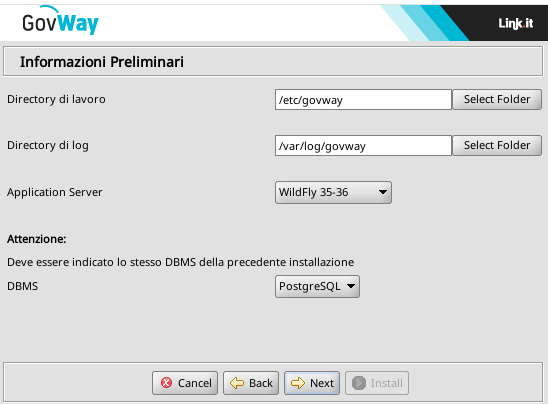
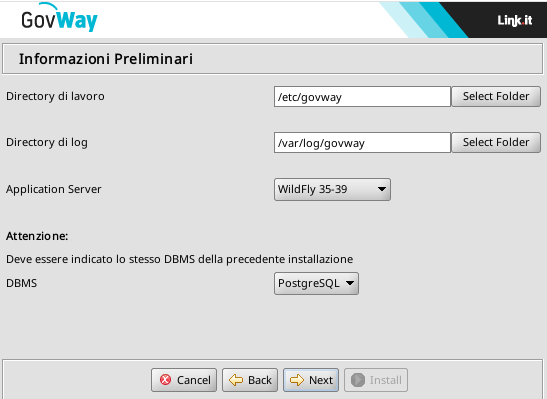
[InstallerVersioneBinaria] Aggiunto supporto per wildfly 39.
Squashed commit of the following:

commit b04a458861ce587e2a53c3a396462551c547e3b7
Author: Tommaso Burlon <tommaso.burlon@gmail.com>
Date:   Tue Feb 10 17:12:10 2026 +0100

    [GovWayCore]
    Aggiunto supporto a WildFly 39

diff --git a/resources/doc/src/manuali/installazione/installer/avanzata.rst b/resources/doc/src/manuali/installazione/installer/avanzata.rst
@@ -51,9 +51,13 @@ La sezione **Componenti Applicative** prevede le seguenti opzioni:
 
 - *Generazione delle Statistiche*: scelta del meccanismo da adottare per il periodico aggiornamento delle statistiche:
 
-	- *Utilizza stesso ambiente del Runtime*: il meccanismo di generazione delle statistiche è automatizzato con un sistema di integrazione al runtime di Govway
+	- *Utilizza stesso ambiente del Runtime*: il meccanismo di generazione delle statistiche è automatizzato con un sistema integrato al runtime di Govway;
 
-	- *Generazione tramite Applicazione Batch*: la generazione delle statistiche avviene tramite invocazione di un batch appositamente generato
+	- *Generazione tramite Applicazione Web*: la generazione delle statistiche è delegata ad un'applicazione dedicata alla funzionalità;
+
+	- *Generazione tramite Applicazione Batch*: la generazione delle statistiche avviene tramite invocazione di un batch appositamente generato;
+	
+	- *Utilizza Runtime; predisponi Batch*: il meccanismo di generazione è integrato al runtime, ma negli artefatti prodotti è disponibile anche il batch.
 
 - *Gestione dei Nodi*: Indica la modalità con cui si vuole gestire la configurazione dei diversi nodi di runtime:
 

diff --git a/resources/doc/src/manuali/installazione/preliminare/index.rst b/resources/doc/src/manuali/installazione/preliminare/index.rst
@@ -21,7 +21,7 @@ mancanti.
 
    - -Dfile.encoding=UTF-8
 
-#. *Application Server WildFly* (http://wildfly.org); viene supportata la versione 27-28 (compatibile con JBoss EAP 8.0) e le versioni dalla 35 alla 38 (compatibile con JBoss EAP 8.1). In alternativa è possibile effettuare
+#. *Application Server WildFly* (http://wildfly.org); viene supportata la versione 27-28 (compatibile con JBoss EAP 8.0) e le versioni dalla 35 alla 39 (compatibile con JBoss EAP 8.1). In alternativa è possibile effettuare
    l'installazione su Apache Tomcat (http://tomcat.apache.org) versione 11.
 
    .. note::
@@ -49,4 +49,4 @@ sulla seguente piattaforma di riferimento:
 
 -  *PostgreSQL 13 (version: 13.21)*, *PostgreSQL 16 (version: 16.1)* e *Oracle 11g ExpressEdition (version: 11.2.0.2.0)*
 
--  *WildFly 38 (version: 38.0.0.Final)* e *Tomcat 11 (version: 11.0.8)*
+-  *WildFly 38 (version: 38.0.0.Final)*, *WildFly 39 (version: 39.0.0.Final)* e *Tomcat 11 (version: 11.0.8)*

diff --git a/resources/doc/src/manuali/installazione/installer/nuovaInstallazione.rst b/resources/doc/src/manuali/installazione/installer/nuovaInstallazione.rst
@@ -33,7 +33,7 @@ come si sviluppa il processo di installazione:
    -  *DBMS*: il tipo di database scelto tra quelli supportati:
       PostgreSQL, MySQL, Oracle, HyperSQL, SQLServer.
 
-   -  *Application Server*: il tipo di application server tra quelli supportati: WildFly (deve essere selezionata la voce che comprende la versione utilizzata tra: 27-28 o 35-38) e Apache Tomcat (versione 11).
+   -  *Application Server*: il tipo di application server tra quelli supportati: WildFly (deve essere selezionata la voce che comprende la versione utilizzata tra: 27-28 o 35-39) e Apache Tomcat (versione 11).
 
 #. Al passo successivo si dovranno inserire tutti i dati per l'accesso
    al database ed in particolare:
